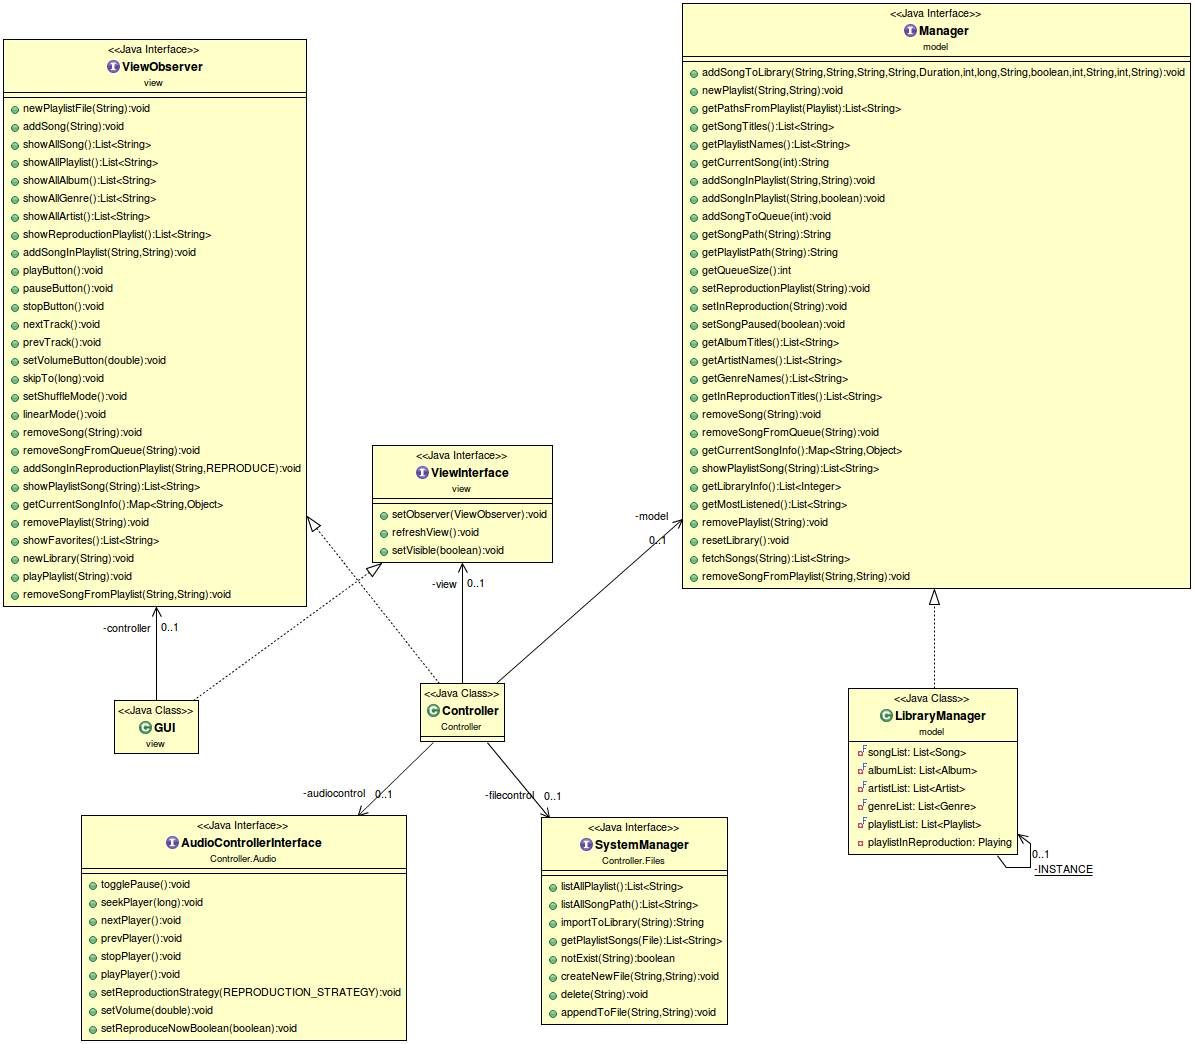
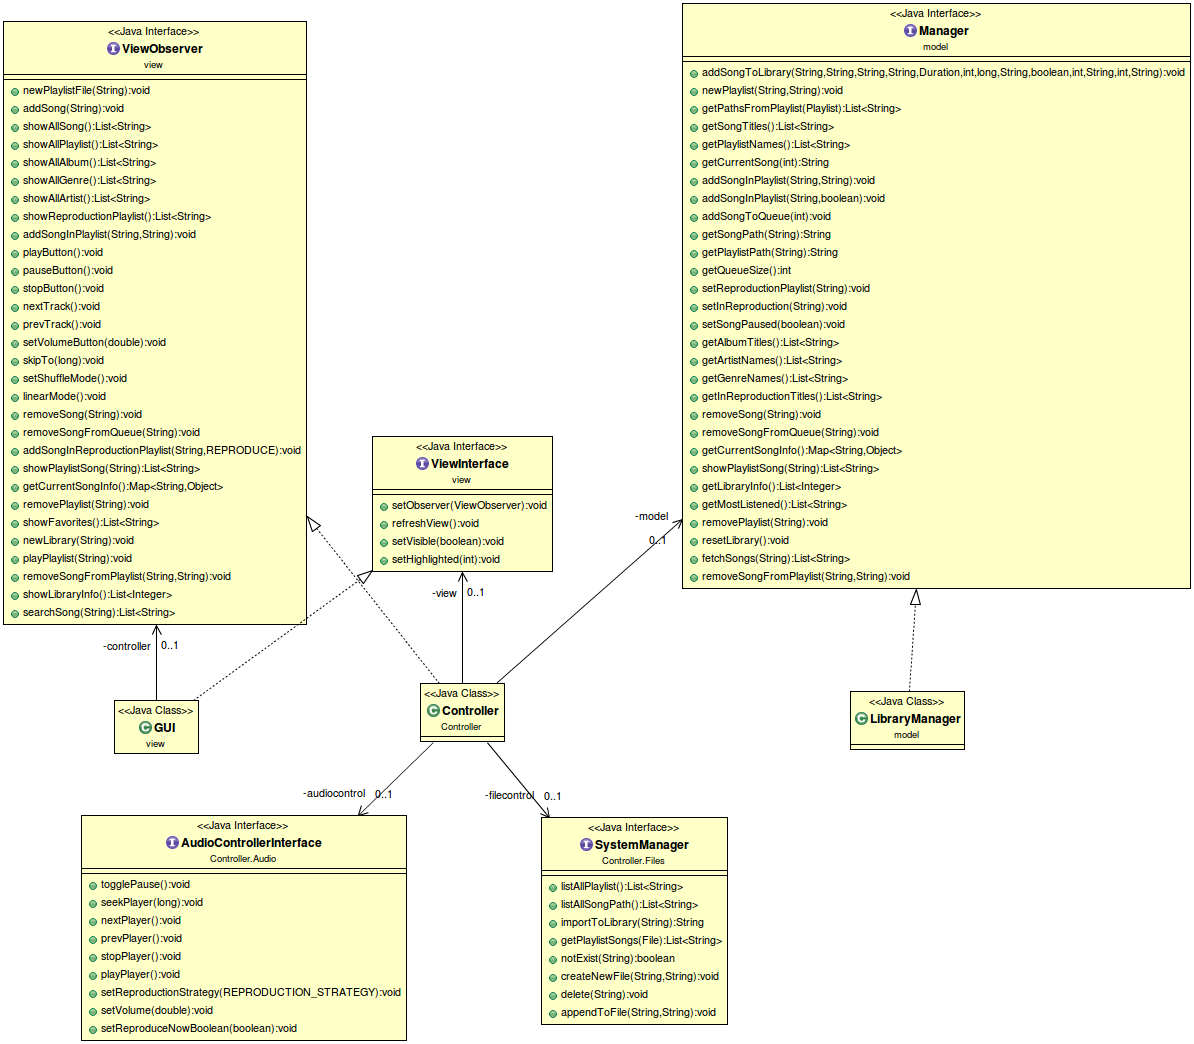
testing barra avanzamento gui next/prev crash fixed fetchsong improved form MODEL UMLgeneral created other changes

diff --git a/src/view/GUI.java b/src/view/GUI.java
@@ -10,9 +10,11 @@ import java.awt.event.ActionEvent;
 import java.awt.event.ActionListener;
 import java.awt.event.MouseEvent;
 import java.awt.event.MouseListener;
+import java.lang.reflect.InvocationTargetException;
 import java.net.URL;
 import java.util.Map;
 import java.util.Vector;
+import java.util.concurrent.Semaphore;
 
 import javax.swing.ImageIcon;
 import javax.swing.JButton;
@@ -38,6 +40,7 @@ import java.awt.Font;
 import javax.swing.JMenuItem;
 import java.awt.Component;
 import javax.swing.SwingConstants;
+import javax.swing.SwingUtilities;
 import javax.swing.event.ChangeEvent;
 import javax.swing.event.ChangeListener;
 
@@ -57,16 +60,20 @@ public class GUI implements ViewInterface{
     private boolean stopped = true;
     private String selectedSongName;
     private String selectedPlaylistName;
-    //private JSlider seekBar = new JSlider(SwingConstants.HORIZONTAL, 0, 100, 0);
+    private JSlider seekBar = new JSlider(SwingConstants.HORIZONTAL, 0,100,0);
     private Integer deltaColor = 0;
     private Integer[] infoLibraryArray = new Integer[3];
     final JLabel lbInfoLibrary = new JLabel("Numero brani + minutaggio: ");
     final JButton btAllSongs = new JButton("All Songs");
-    final JSlider slVol = new JSlider(SwingConstants.HORIZONTAL, 0, 100, 100);
+    final JSlider slVol = new JSlider(SwingConstants.HORIZONTAL, 0, 100, 50);
     final List searchList = new List();
-
+    private Agent agent = new Agent();
     public GUI() {
-
+        agent.start();
+        
+        this.seekBar.setDoubleBuffered(true);
+        this.seekBar.setSnapToTicks(true);
+        
         frame = new JFrame("BeeSound Player");
         final JPanel pnLanding = new JPanel(new BorderLayout());
         frame.setFont(new Font("Trajan Pro", Font.PLAIN, 12));
@@ -90,6 +97,12 @@ public class GUI implements ViewInterface{
         final JLabel lbInfoCurrent = new JLabel("Info Current");
         lbInfoCurrent.setPreferredSize(new Dimension((int)(frame.getWidth() * 0.46), (int)(frame.getHeight() * 0.1)));
         lbInfoCurrent.setAlignmentX(Component.CENTER_ALIGNMENT);
+        pnRight.add(this.seekBar);
+        
+        //SeekBar
+        this.seekBar.addChangeListener(e->{
+            seek();
+        });
         
         //pnRight.add(seekBar);
         pnRight.add(lbImage);     
@@ -123,7 +136,11 @@ public class GUI implements ViewInterface{
 
             @Override
             public void actionPerformed(ActionEvent e) {
-                if (stopped) {                   
+                if (stopped) {
+                    agent.setStopped(false);
+                    agent.awake();
+                    System.out.println("awake signal!!!!");
+                    if(list.getModel().getSize()==0)return;
                     controller.addSongInReproductionPlaylist(list.getModel()
                             .getElementAt(list.getMaxSelectionIndex()), REPRODUCE.NOW);
                     playing = true;
@@ -132,6 +149,7 @@ public class GUI implements ViewInterface{
                 }
                 else {
                     controller.pauseButton();
+                    agent.setStopped(true);
                     playing = !playing;
                 }
                 stopped = false;
@@ -146,6 +164,7 @@ public class GUI implements ViewInterface{
             public void actionPerformed(ActionEvent e) {
                 controller.stopButton();              
                 stopped = true;
+                
                 playing = false;
                 updatePlayButton(btPlay);
             }
@@ -184,7 +203,7 @@ public class GUI implements ViewInterface{
         });
         
         //SHUFFLE MODE
-        btShuffle.setEnabled(false);;
+        btShuffle.setEnabled(true);
         btShuffle.addActionListener(new ActionListener() {
 
             @Override
@@ -196,7 +215,7 @@ public class GUI implements ViewInterface{
         });
         
         //LINEAR MODE
-        btLinear.setEnabled(true);
+        btLinear.setEnabled(false);
         btLinear.addActionListener(new ActionListener() {
 
             @Override
@@ -269,6 +288,9 @@ public class GUI implements ViewInterface{
                             stopped = false;
                             updatePlayButton(btPlay);
                             setInfoLabel(lbInfoCurrent, controller.getCurrentSongInfo());
+                            agent.setStopped(false);
+                            agent.awake();
+                            
                         }                        
                     }
                 });                
@@ -575,6 +597,10 @@ public class GUI implements ViewInterface{
         controller.setVolumeButton((double)slVol.getValue() / 100);
     }
 
+    private void seek(){
+        controller.skipTo(this.seekBar.getValue());
+    }
+    
     @Override
     public void setVisible(final boolean visible) {        
         this.frame.setVisible(visible);
@@ -607,8 +633,10 @@ public class GUI implements ViewInterface{
      * @param Map
      */
     private void setInfoLabel(JLabel label, Map<String, Object> map) {
-        Duration duration = (Duration)(map.get("Duration"));
-        label.setText(map.get("Title") + " - " + duration.getMin() + ":" + duration.getSec());
+        Duration duration = (Duration)(map.get("duration"));
+        label.setText(map.get("title") + " - " + duration.getMin() + ":" + duration.getSec());
+        this.seekBar.setMaximum((Integer)(this.controller.getCurrentSongInfo().get("size")));
+        this.seekBar.setValue(0);
     }
 
     /**
@@ -814,4 +842,60 @@ public class GUI implements ViewInterface{
         
         return menu;
     }    
+    
+    class Agent extends Thread{
+        private volatile boolean stopped = true;
+        private int tickval;
+        private Object obj = new Object();
+        Semaphore sem = new Semaphore(1);
+        public synchronized void run(){
+           System.out.println("CIAO STRONZO");
+            while(true){
+                while(!stopped){
+                    tickval =(int)(GUI.this.controller.getCurrentSongInfo().get("size"))/100;
+                    System.out.println("POS: "+ controller.getPos());
+                    if(controller.getPos()%tickval==0){
+                        try {
+                            SwingUtilities.invokeAndWait(new Runnable() {
+                                
+                                @Override
+                                public void run() {
+                                    GUI.this.seekBar.setValue(
+                                            controller.getPos()
+                                                );
+                                        System.out.println("aggiornata seekbar");
+                                }
+                            });
+                        } catch (Exception e) {
+                           e.printStackTrace();
+                        }
+                        try {
+                            Thread.sleep(100);
+                        } catch (InterruptedException e) {
+                            // TODO Auto-generated catch block
+                            e.printStackTrace();
+                        }
+                    }
+                }
+                
+               try {
+                   System.out.println("inizio attesa..");
+                   wait();
+                   System.out.println("attesa finita.");
+                } catch (InterruptedException e) {
+                    e.printStackTrace();
+                    }
+            }
+        }
+        
+        public synchronized void awake(){
+            
+                notifyAll();
+            
+        }
+        
+        public void setStopped(final boolean value){
+            this.stopped = value;
+        }
+    }
 }

diff --git a/src/Controller/Audio/AudioController.java b/src/Controller/Audio/AudioController.java
@@ -8,13 +8,13 @@ import Controller.Files.Log;
 import javazoom.jlgui.basicplayer.*;
 import model.Manager;
 
-public class AudioController implements BasicPlayerListener, AudioControllerInterface{
+public class AudioController extends BasicPlayer implements BasicPlayerListener, AudioControllerInterface{
     
     final private Manager lm;
     private int counter = 0;
     private boolean reproduceNow;
     private boolean paused;
-    private boolean strategy; /* if true linear, else shuffle */
+    private boolean strategy = true; /* if true linear, else shuffle */
     final private BasicPlayer player;
     final private BasicController control;
     final private Random rnd = new Random();
@@ -50,6 +50,11 @@ public class AudioController implements BasicPlayerListener, AudioControllerInte
         this.player.addBasicPlayerListener(this);
         this.mp3Info = MpegInfo.getInstance();
         this.out = System.out;
+        try {
+            this.control.setGain(0.50);
+        } catch (BasicPlayerException e) {
+            e.printStackTrace();
+        }
     }
     
     /**
@@ -117,6 +122,7 @@ public class AudioController implements BasicPlayerListener, AudioControllerInte
     public void prevPlayer(){
         try {
             control.stop();
+            if (this.counter == 0) return;
             this.counter--;
             this.playPlayer();
         } catch (BasicPlayerException e) {
@@ -157,7 +163,6 @@ public class AudioController implements BasicPlayerListener, AudioControllerInte
             this.paused = false;
             this.control.open(new File(s));
             this.control.play();
-            this.control.setGain(0.85);
             this.control.setPan(0.0);
         } catch ( Exception e){
             Log.ERROR("can't perform action: playPlayer()"  + e);
@@ -183,6 +188,7 @@ public class AudioController implements BasicPlayerListener, AudioControllerInte
      */
     private void nextSongPlayer(){
         if(strategy) {
+            System.out.println("Queue size: " +this.lm.getQueueSize());
             if(this.counter + 1 > this.lm.getQueueSize() -1 ){
                 this.stopPlayer();
                 Log.INFO("playlist finished");
@@ -204,7 +210,6 @@ public class AudioController implements BasicPlayerListener, AudioControllerInte
     public void setVolume(final double volume){
         try {
             this.control.setGain(volume);
-            Log.PROGRAM("GAIN set to "+volume);
         } catch (BasicPlayerException e) {
             Log.ERROR("impossible to change volume, error in setVolume " + e);
             e.printStackTrace();
@@ -234,6 +239,7 @@ public class AudioController implements BasicPlayerListener, AudioControllerInte
             display("opened : "+properties.toString());             
     }
     
+    int position;
     /*
      * @SuppressWarnig due to the native Library implementation(non-Javadoc)
      * @see javazoom.jlgui.basicplayer.BasicPlayerListener#progress(int, long, byte[], java.util.Map)
@@ -242,8 +248,10 @@ public class AudioController implements BasicPlayerListener, AudioControllerInte
     @SuppressWarnings("rawtypes")
     public void progress(final int bytesread,final long microseconds,
             final byte[] pcmdata,final Map properties) {
-            
-     //       display("progress : "+properties.toString());
+       position = Long.valueOf((long)(properties.get("mp3.position.byte"))).intValue();
+       //display(""+position);
+           //display("progress: "+ properties.get("mp3.position.byte"));
+           // display("progress : "+properties.toString());
     }
     
     @Override
@@ -258,5 +266,10 @@ public class AudioController implements BasicPlayerListener, AudioControllerInte
     @Override
     public void setController(final BasicController controller) {
         display("setController : "+controller);
+    }
+    
+    
+    public int getPos(){
+        return this.position;
     }
 }

diff --git a/src/model/LibraryManager.java b/src/model/LibraryManager.java
@@ -360,9 +360,9 @@ public final class LibraryManager implements Manager{   // this class is impleme
     @Override
     public Map<String, Object> getCurrentSongInfo() {
         Map<String, Object> map = new HashMap<>();
-        map.put("Title", this.playlistInReproduction.getSongInReproduction().getTitle());
-        map.put("Size", this.playlistInReproduction.getSongInReproduction().getSize());
-        map.put("Duration", this.playlistInReproduction.getSongInReproduction().getDuration());
+        map.put("title", this.playlistInReproduction.getSongInReproduction().getTitle());
+        map.put("size",(int)(this.playlistInReproduction.getSongInReproduction().getSize()));
+        map.put("duration", this.playlistInReproduction.getSongInReproduction().getDuration());
         return map;       
     }    
     
@@ -421,13 +421,13 @@ public final class LibraryManager implements Manager{   // this class is impleme
     }  
     
     public void resetLibrary() {
-        this.INSTANCE = new LibraryManager();       
+        INSTANCE = new LibraryManager();       
     }
     
     public List<String> fetchSongs(String songTitle) {
         List<String> list = new ArrayList<>();
         for (Song s : this.songList) {
-            if (clearText(s.getTitle()).toLowerCase().matches(songTitle.toLowerCase())) {
+            if (clearText(s.getTitle()).toLowerCase().contains(songTitle.toLowerCase())) {
                 list.add(s.getTitle());
             }
         }

diff --git a/src/view/ViewObserver.java b/src/view/ViewObserver.java
@@ -177,15 +177,17 @@ public interface ViewObserver {
     void removeSongFromPlaylist(String songName, String playlistName);
     
     /**
-     * Retrun a list containing informations amount of songs and minutes in library
+     * Return a list containing informations amount of songs and minutes in library
      * @return
      */
     List<Integer> showLibraryInfo();
     
     /**
-     * returns a list for all the matched strings
+     * Returns a list for all the matched songs.
      * @param text
      * @return
      */
     List<String> searchSong(String text);
+    
+    int getPos();
 }

diff --git a/src/Controller/Controller.java b/src/Controller/Controller.java
@@ -369,4 +369,8 @@ public class Controller implements ViewObserver {
     public List<String> searchSong(String text) {
         return this.model.fetchSongs(text);
     }
+   
+    public int getPos(){
+        return this.audiocontrol.getPos();
+    }
 }

diff --git a/src/Controller/Audio/AudioControllerInterface.java b/src/Controller/Audio/AudioControllerInterface.java
@@ -53,4 +53,6 @@ public interface AudioControllerInterface {
      * @param b
      */
     public void setReproduceNowBoolean(final boolean b);
+    
+    int getPos();
 }
